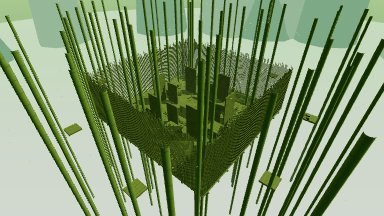
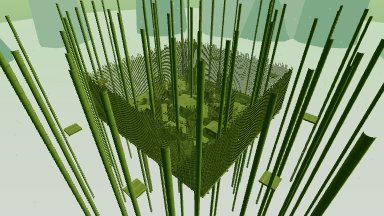
Bamboo Fort: inner walls are see-through rows of thin poles, like the outer wall

diff --git a/src/bamboo.js b/src/bamboo.js
@@ -5,7 +5,7 @@
 // them (and come back a few seconds later for the next fighter).
 import * as THREE from 'three';
 import { deck, prop, stalk, drift, farRing } from './maps2.js';
-import { kindMats, chunk, join, group, wall, stack, finishBrk, kill } from './dojo.js?v=20261114154714';
+import { kindMats, chunk, join, group, wall, stack, finishBrk, kill } from './dojo.js?v=20261114155021';
 
 const TAU = Math.PI * 2, HALF = 30, TILE = 1.5;
 
@@ -45,8 +45,8 @@ export function buildBamboo(A, T) {
   // but they're too narrow to slip through: anyone swinging or dashing in cuts through the poles in the way, and
   // whatever is above each cut drops. Every pole is a stack of segments (each rests on the one below).
   const WH = 20, SEG = 4, SP = 0.36, PW = 0.14, WI = HALF - 0.3;
-  const pole = (x, z) => {
-    const g = group(), h = WH - 1.5 + r() * 3, nseg = Math.round(h / SEG); let below = null;
+  const pole = (x, z, H = WH) => {
+    const g = group(), h = H - 1.5 + r() * 3, nseg = Math.max(1, Math.round(h / SEG)); let below = null;
     for (let j = 0; j < nseg; j++) { const b = chunk(A, g, 'bamboo', x - PW / 2, x + PW / 2, j * h / nseg, (j + 1) * h / nseg, z - PW / 2, z + PW / 2, j === 0); join(b, below); below = b; }
   };
   for (let u = -WI; u <= WI + 1e-6; u += SP) { pole(u, -WI); pole(u, WI); if (u > -WI + 1e-6 && u < WI - 1e-6) { pole(-WI, u); pole(WI, u); } }
@@ -100,11 +100,12 @@ export function buildBamboo(A, T) {
   taken.push([0, 0, 5.5]);
   for (let k = 0; k < 6; k++) { // a 14 m wall halfway between each pair of huts, running across the way round
     const a = k / 6 * TAU + 0.3 + TAU / 12, cx = Math.cos(a) * 17, cz = Math.sin(a) * 17, tx = -Math.sin(a), tz = Math.cos(a), L = 7;
-    if (Math.abs(tx) > Math.abs(tz)) wall(A, cx - L / 2, cz, cx + L / 2, cz, 0, 14, { kind: 'bamboo', posts: false, t: 0.45 });
-    else wall(A, cx, cz - L / 2, cx, cz + L / 2, 0, 14, { kind: 'bamboo', posts: false, t: 0.45 });
+    const row = (ax, az, bx, bz, H) => { const L2 = Math.hypot(bx - ax, bz - az), m = Math.round(L2 / SP); for (let i = 0; i <= m; i++) pole(ax + (bx - ax) * i / m, az + (bz - az) * i / m, H); }; // a see-through row of thin poles, like the outer wall
+    if (Math.abs(tx) > Math.abs(tz)) row(cx - L / 2, cz, cx + L / 2, cz, 14);
+    else row(cx, cz - L / 2, cx, cz + L / 2, 14);
     for (let s = -1; s <= 1; s++) taken.push([cx + tx * s * 3, cz + tz * s * 3, 2.5]);
   }
-  for (const [x, z] of [[0, -12], [0, 12], [-12, 0], [12, 0]]) { wall(A, x - 3, z, x + 3, z, 0, 10, { kind: 'bamboo', posts: false, t: 0.45 }); } // lower walls round the gazebo
+  for (const [x, z] of [[0, -12], [0, 12], [-12, 0], [12, 0]]) { const m = Math.round(6 / SP); for (let i = 0; i <= m; i++) pole(x - 3 + 6 * i / m, z, 10); } // lower see-through pole walls round the gazebo
   for (const [x, z] of [[0, -12], [0, 12], [-12, 0], [12, 0]]) taken.push([x, z, 3.5]);
   let placed = 0;
   for (let tries = 0; tries < 400 && placed < 18; tries++) { // thick pillars rising 40 m, spread through the fort

diff --git a/src/main.js b/src/main.js
@@ -1,16 +1,16 @@
 import * as THREE from 'three';
-import { Arena, MAPS } from './arena.js?v=20261114154714';
-import { Fighter, PALETTE, GUARD, setMetalEnv, metalEnvFor } from './fighter.js?v=20261114154714';
-import { bakeMeshes, Pieces, Particles, splitSoup } from './slice.js?v=20261114154714';
-import { sfx, ensureAudio, setListener, setVolume, setMuted } from './audio.js?v=20261114154714';
-import * as net from './net.js?v=20261114154714';
-import { MODES, POINT_MODES, MODE_GOAL, ModeFx, makeCrown } from './modes.js?v=20261114154714';
-import { profile, addCoins, randomLook, cleanLook, item, cleanUp, upMul } from './cosmetics.js?v=20261114154714';
-import { makeKillFx } from './killfx.js?v=20261114154714';
-import { makeGrapple } from './grapple.js?v=20261114154714';
-import { initShop } from './shop.js?v=20261114154714';
-import { breakChunk, chunkSoup } from './dojo.js?v=20261114154714';
-import { portal } from './portal.js?v=20261114154714';
+import { Arena, MAPS } from './arena.js?v=20261114155021';
+import { Fighter, PALETTE, GUARD, setMetalEnv, metalEnvFor } from './fighter.js?v=20261114155021';
+import { bakeMeshes, Pieces, Particles, splitSoup } from './slice.js?v=20261114155021';
+import { sfx, ensureAudio, setListener, setVolume, setMuted } from './audio.js?v=20261114155021';
+import * as net from './net.js?v=20261114155021';
+import { MODES, POINT_MODES, MODE_GOAL, ModeFx, makeCrown } from './modes.js?v=20261114155021';
+import { profile, addCoins, randomLook, cleanLook, item, cleanUp, upMul } from './cosmetics.js?v=20261114155021';
+import { makeKillFx } from './killfx.js?v=20261114155021';
+import { makeGrapple } from './grapple.js?v=20261114155021';
+import { initShop } from './shop.js?v=20261114155021';
+import { breakChunk, chunkSoup } from './dojo.js?v=20261114155021';
+import { portal } from './portal.js?v=20261114155021';
 
 // ---------- settings ----------
 const store = {

diff --git a/index.html b/index.html
@@ -4,7 +4,7 @@
 <meta charset="utf-8">
 <meta name="viewport" content="width=device-width,initial-scale=1">
 <title>Sever</title>
-<meta name="build" content="20261114154714">
+<meta name="build" content="20261114155021">
 <link rel="icon" href="data:,">
 <script>
 // Stale-page guard (as in Splatline): if version.json names a newer build than this page, reload once.
@@ -129,12 +129,12 @@ window.severVersion.check();
 <script type="importmap">
 { "imports": {
   "three": "./vendor/three.module.min.js",
-  "./src/main.js": "./src/main.js?v=20261114154714",
-  "./src/arena.js": "./src/arena.js?v=20261114154714",
-  "./src/fighter.js": "./src/fighter.js?v=20261114154714",
-  "./src/slice.js": "./src/slice.js?v=20261114154714",
-  "./src/audio.js": "./src/audio.js?v=20261114154714",
-  "./src/net.js": "./src/net.js?v=20261114154714"
+  "./src/main.js": "./src/main.js?v=20261114155021",
+  "./src/arena.js": "./src/arena.js?v=20261114155021",
+  "./src/fighter.js": "./src/fighter.js?v=20261114155021",
+  "./src/slice.js": "./src/slice.js?v=20261114155021",
+  "./src/audio.js": "./src/audio.js?v=20261114155021",
+  "./src/net.js": "./src/net.js?v=20261114155021"
 } }
 </script>
 </head>
@@ -277,6 +277,6 @@ window.severVersion.check();
 <div id="toast" style="opacity:0"></div>
 <div id="loading">Loading…</div>
 <noscript><p style="position:fixed;inset:0;display:flex;align-items:center;justify-content:center">Sever needs JavaScript and WebGL.</p></noscript>
-<script type="module" src="src/main.js?v=20261114154714"></script>
+<script type="module" src="src/main.js?v=20261114155021"></script>
 </body>
 </html>

diff --git a/src/shop.js b/src/shop.js
@@ -1,10 +1,10 @@
 // The shop screen: browse by category, try things on a turning, swinging preview fighter, buy and equip.
 import * as THREE from 'three';
-import { Fighter, PALETTE, setMetalEnv, metalEnvFor } from './fighter.js?v=20261114154714';
-import { Particles, Pieces, bakeMeshes } from './slice.js?v=20261114154714';
-import { makeKillFx } from './killfx.js?v=20261114154714';
-import { makeGrapple } from './grapple.js?v=20261114154714';
-import { CATEGORIES, CATALOG, item, profile, owns, buy, equip, UPGRADES, UP_MAX, UP_PRICES, buyUpgrade, upText } from './cosmetics.js?v=20261114154714';
+import { Fighter, PALETTE, setMetalEnv, metalEnvFor } from './fighter.js?v=20261114155021';
+import { Particles, Pieces, bakeMeshes } from './slice.js?v=20261114155021';
+import { makeKillFx } from './killfx.js?v=20261114155021';
+import { makeGrapple } from './grapple.js?v=20261114155021';
+import { CATEGORIES, CATALOG, item, profile, owns, buy, equip, UPGRADES, UP_MAX, UP_PRICES, buyUpgrade, upText } from './cosmetics.js?v=20261114155021';
 
 const $ = (id) => document.getElementById(id);
 const hex = (c) => '#' + c.toString(16).padStart(6, '0');

diff --git a/src/arena.js b/src/arena.js
@@ -3,9 +3,9 @@
 // so collision and "what am I standing on" stay simple and identical in every browser.
 import * as THREE from 'three';
 import { buildPagoda, buildIsles, buildBowl } from './maps2.js';
-import { buildBamboo } from './bamboo.js?v=20261114154714';
-import { buildCity } from './city.js?v=20261114154714';
-import { buildDojo } from './dojo.js?v=20261114154714';
+import { buildBamboo } from './bamboo.js?v=20261114155021';
+import { buildCity } from './city.js?v=20261114155021';
+import { buildDojo } from './dojo.js?v=20261114155021';
 const NONE = [];
 const _bm = new THREE.Matrix4(), _bp = new THREE.Vector3(), _bq = new THREE.Quaternion(), _bs = new THREE.Vector3(); // bamboo instance updates
 

diff --git a/src/killfx.js b/src/killfx.js
@@ -1,8 +1,8 @@
 // Kill effects from the shop: what happens to someone you cut down. The body still splits along your
 // cut; the effect changes what sprays out, what the pieces leak, and what becomes of them.
 import * as THREE from 'three';
-import { Particles } from './slice.js?v=20261114154714';
-import { sfx } from './audio.js?v=20261114154714';
+import { Particles } from './slice.js?v=20261114155021';
+import { sfx } from './audio.js?v=20261114155021';
 
 const R = () => Math.random() - 0.5;
 

diff --git a/src/fighter.js b/src/fighter.js
@@ -2,7 +2,7 @@
 // cleanly), posed each frame with a long-striding run cycle, two-bone IK for arms and legs, and a sword
 // driven by the swing input (s.x, s.y).
 import * as THREE from 'three';
-import { item, cleanLook } from './cosmetics.js?v=20261114154714';
+import { item, cleanLook } from './cosmetics.js?v=20261114155021';
 
 // Every material that can end up on a sliced piece is registered here, so a piece's single mesh can use
 // one shared material array and keep each triangle's look.

diff --git a/src/city.js b/src/city.js
@@ -4,7 +4,7 @@
 // steel frames (unbreakable) are there to swing from, run along and stand on.
 import * as THREE from 'three';
 import { deck, prop } from './maps2.js';
-import { kindMats, chunk, group, wall, stack, finishBrk, kill } from './dojo.js?v=20261114154714';
+import { kindMats, chunk, group, wall, stack, finishBrk, kill } from './dojo.js?v=20261114155021';
 
 const TAU = Math.PI * 2;
 const std = (color, o = {}) => new THREE.MeshStandardMaterial({ color, roughness: 0.8, ...o });

diff --git a/src/slice.js b/src/slice.js
@@ -2,7 +2,7 @@
 // and turn each side into a tumbling rigid piece. Every original part is convex, so the cut face of a part
 // is the convex hull of the points where the plane crossed it.
 import * as THREE from 'three';
-import { MATS } from './fighter.js?v=20261114154714';
+import { MATS } from './fighter.js?v=20261114155021';
 
 let partSeq = 1;
 const _v = new THREE.Vector3(), _n = new THREE.Vector3(), _nm = new THREE.Matrix3();

diff --git a/src/dojo.js b/src/dojo.js
@@ -6,7 +6,7 @@
 // Vertical: a four-tier dojo tower with stairs spiralling up it, two-storey houses, rooftop bridges, watchtowers
 // and floating shrine islands around the town.
 import * as THREE from 'three';
-import { regMat } from './fighter.js?v=20261114154714';
+import { regMat } from './fighter.js?v=20261114155021';
 import { deck, prop, bridge, stalk, drift, farRing } from './maps2.js';
 
 const TAU = Math.PI * 2, CELL = 6;

diff --git a/README.md b/README.md
@@ -104,7 +104,7 @@ A 60 x 60 m platform built entirely of bamboo, floating in jade mist:
 - **Even the floor is bamboo.** It's made of tiles your sword slices straight through. Cut one out and there's a hole to fall through.
 - Small bamboo **huts** with flat bamboo roofs, an open **gazebo** in the middle (cut its poles and the roof comes down), bamboo **fences** and piles of cut poles.
 - A **wall of thin bamboo poles**, 20 m tall, rings the edge. You can see through the gaps, but they are too narrow to slip through: anyone who swings or dashes in cuts through the poles in the way (the tops drop), leaving a window that shows where they came in.
-- Inside, **high bamboo walls** (14 m between the huts, 10 m round the gazebo) and 18 thick **bamboo pillars** rising 40 m are spread through the fort to swing round and grapple (all cuttable).
+- Inside, **high see-through walls** of thin bamboo poles like the outer wall (14 m between the huts, 10 m round the gazebo) and 18 thick **bamboo pillars** rising 40 m are spread through the fort to swing round and grapple (all cuttable).
 - Outside there's nothing but tall **bamboo pillars** to swing from (and cut).
 - **Spawn pads**: everyone starts on a small pad floating outside the fort and rushes the middle. Once you leave a pad it falls away into the mist, and it comes back 6 s later for the next fighter.
 
